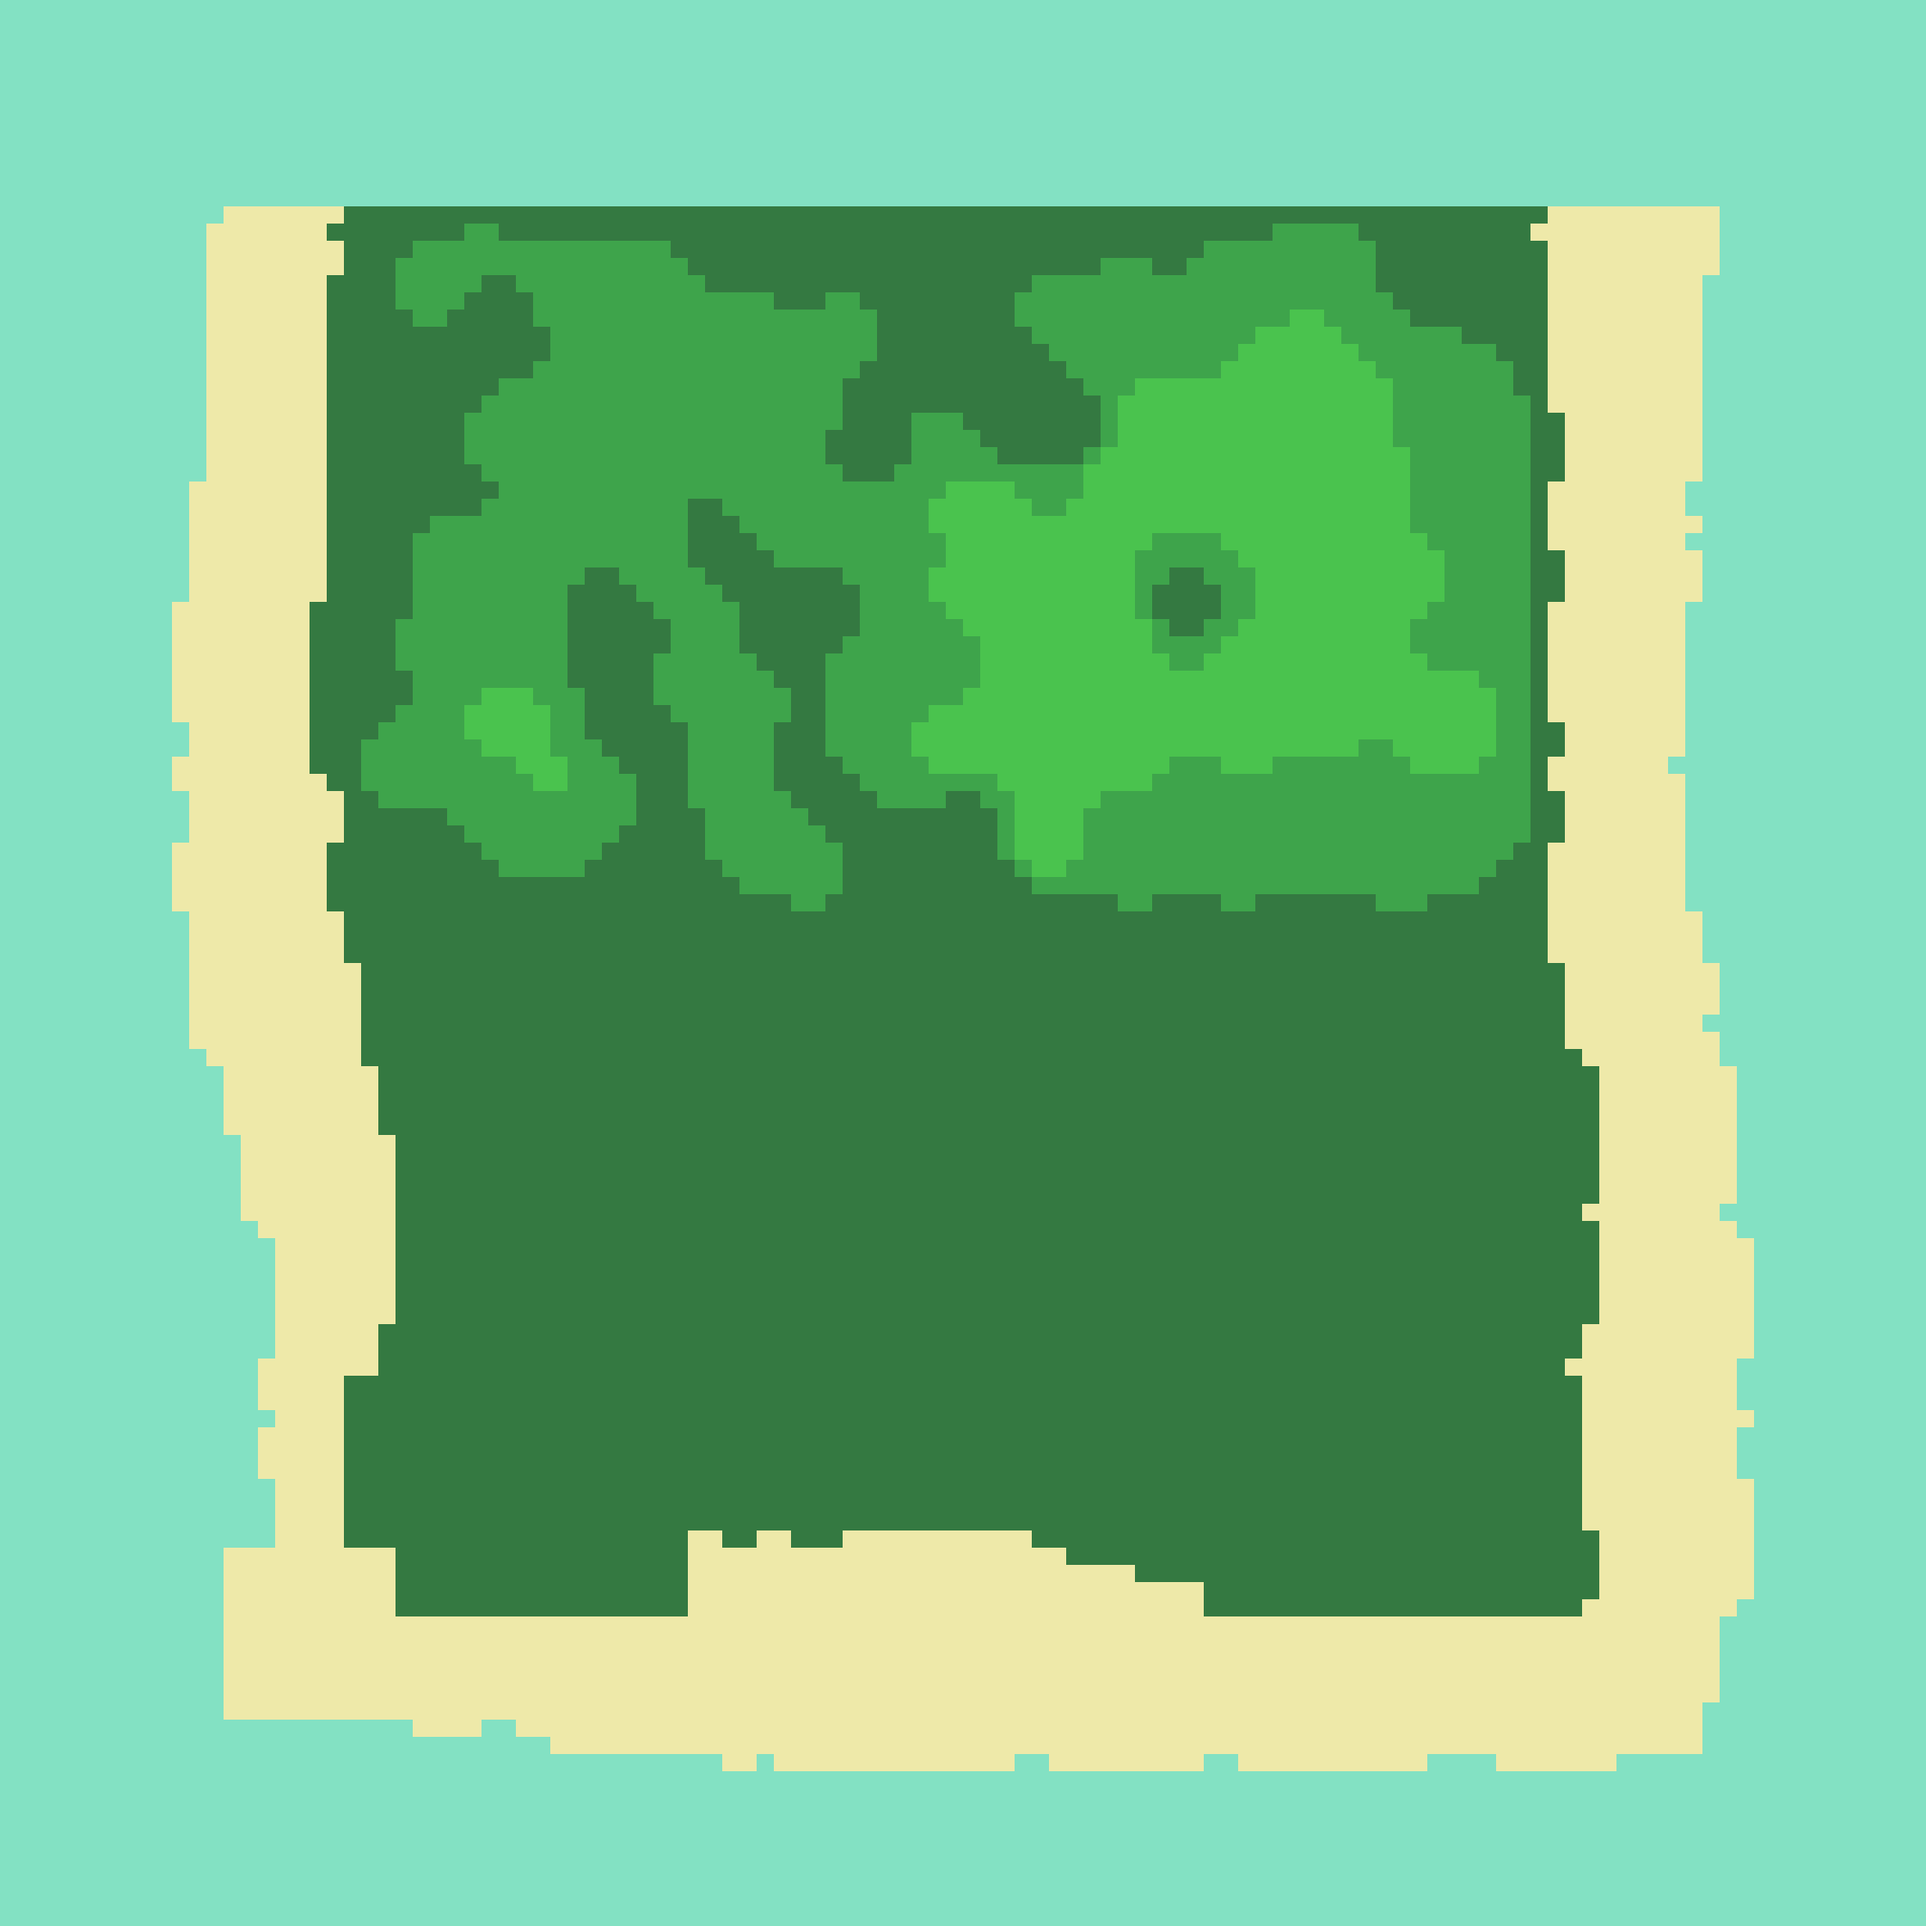
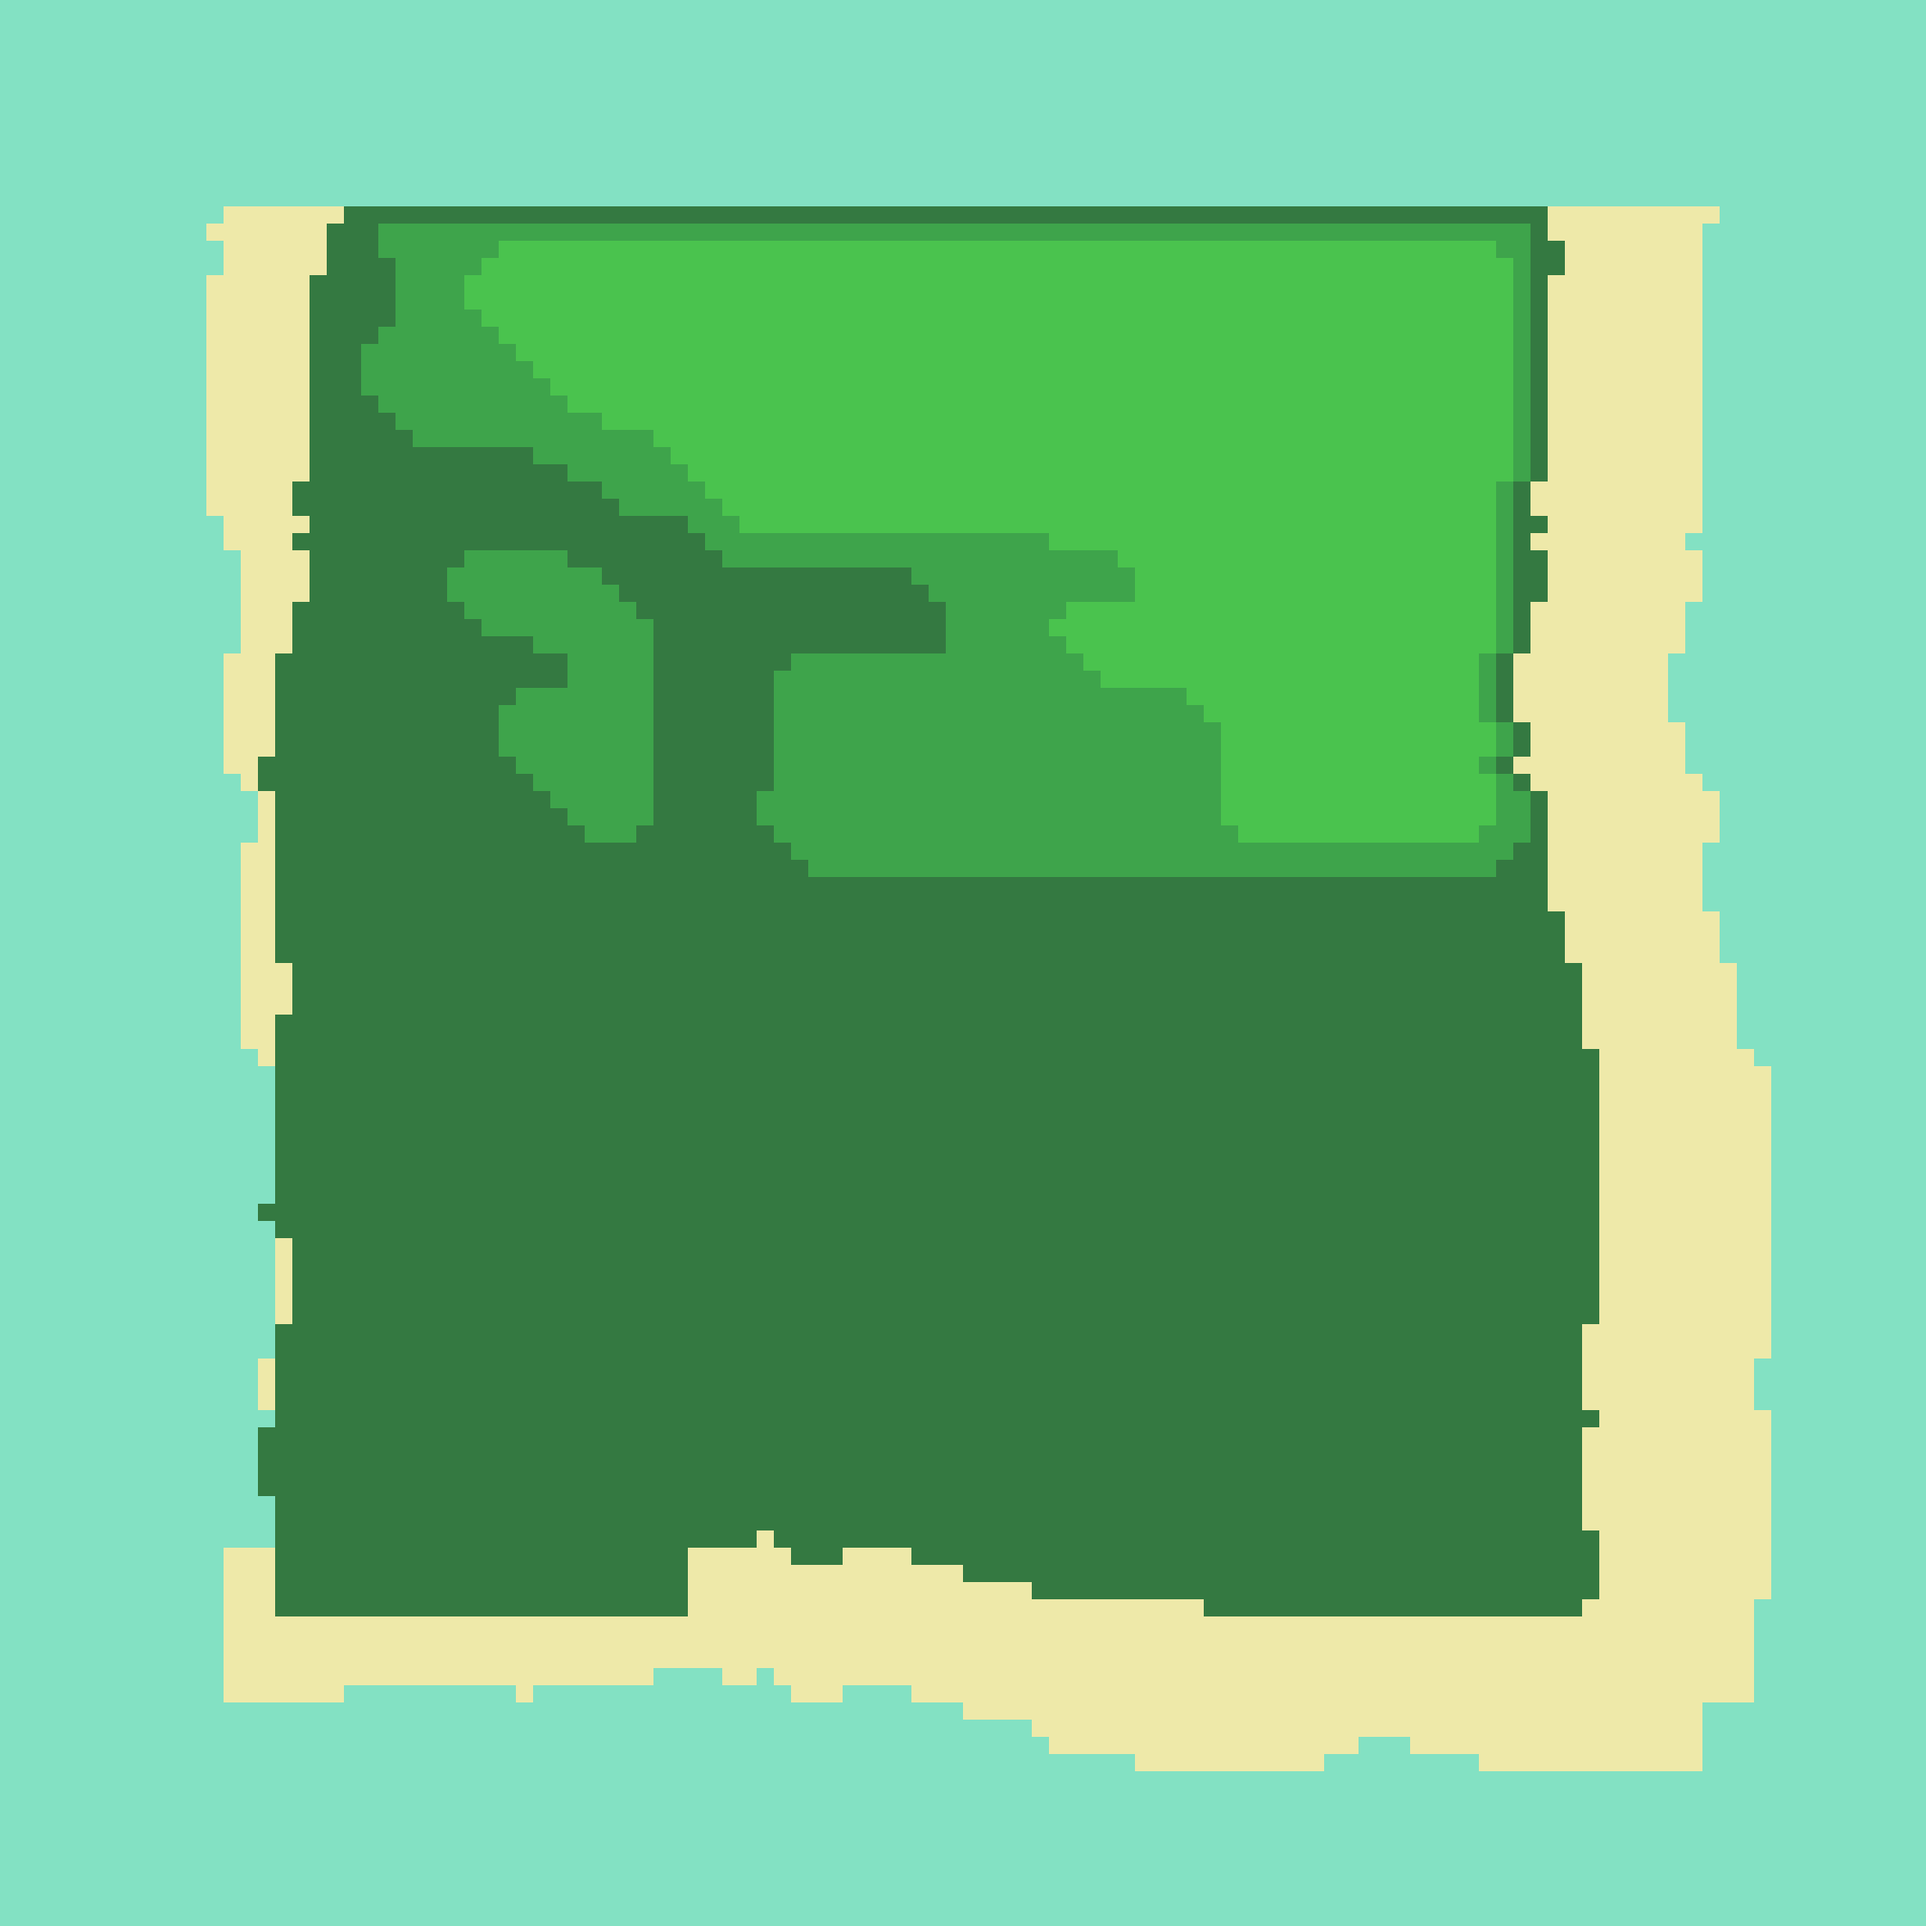
Added fix for holes in the island

diff --git a/HillGenerator.java b/HillGenerator.java
@@ -1,21 +1,24 @@
 import java.util.Random;
 import java.awt.image.*;
-
+import java.util.*;
 public class HillGenerator {
 	private TileMap mappy;
 	private int hillW;
 	private int hillH;
 	private int[][] hillNumbers;
 	
+	private BufferedImage ground;
 	private BufferedImage grass;
 	private BufferedImage hillGrass;
 	
+	private int layer;
+	private Random ran = new Random();
 	private String seed;
 	private Boolean useRandomSeed;
 	private int fillPercent;
-	private int iterations = 5;
+	private int iterations = 4;
 	
-	public HillGenerator(TileMap m, int layer, int fp, String s){
+	public HillGenerator(TileMap m, int lay, int fp, String s){
 		mappy = m;
 		hillW = mappy.getWidth();
 		hillH = mappy.getHeight()/2;
@@ -23,6 +26,7 @@ public class HillGenerator {
 		seed = s;
 		useRandomSeed = false;
 		fillPercent = fp;
+		layer = lay;
 		if(layer==1) {
 			grass = Utility.LoadImage(".\\Resources\\GroundGrass.png");
 			hillGrass = Utility.LoadImage(".\\Resources\\HillGrass1.png");
@@ -32,18 +36,21 @@ public class HillGenerator {
 			hillGrass = Utility.LoadImage(".\\Resources\\HillGrass2.png");
 		}
 	}
-	public HillGenerator(TileMap m, int layer, int fp){
+	public HillGenerator(TileMap m, int lay, int fp){
 		mappy = m;
 		hillW = mappy.getWidth();
 		hillH = mappy.getHeight()/2;
 		hillNumbers = new int[hillW][hillH];
 		useRandomSeed = true;
 		fillPercent = fp;
+		layer = lay;
 		if(layer==1) {
+			ground = Utility.LoadImage(".\\Resources\\GroundGrass.png");
 			grass = Utility.LoadImage(".\\Resources\\GroundGrass.png");
 			hillGrass = Utility.LoadImage(".\\Resources\\HillGrass1.png");
 		}
 		else {
+			ground = Utility.LoadImage(".\\Resources\\GroundGrass.png");
 			grass = Utility.LoadImage(".\\Resources\\HillGrass1.png");
 			hillGrass = Utility.LoadImage(".\\Resources\\HillGrass2.png");
 		}
@@ -55,12 +62,87 @@ public class HillGenerator {
 		for(int i = 0; i < iterations; i++) {
 			SmoothMap();
 		}
+		
+		Cleanup();
+		
 		DrawToMap();
 		return mappy;
 	}
 	
+	private void Cleanup() {
+		List<List<Coord>> grassRegions = GetRegions(1);
+		int grassThreshholdSize = 30;
+		
+		for (List<Coord> grassRegion : grassRegions) {
+			if(grassRegion.size() < grassThreshholdSize) {
+				for(Coord tile : grassRegion) {
+					hillNumbers[tile.getX()][tile.getY()] = 0;
+				}
+			}
+		}
+		
+		List<List<Coord>> hillRegions = GetRegions(1);
+		int hillThreshholdSize = 30;
+		
+		for (List<Coord> hillRegion : hillRegions) {
+			if(hillRegion.size() < hillThreshholdSize) {
+				for(Coord tile : hillRegion) {
+					hillNumbers[tile.getX()][tile.getY()] = 1;
+				}
+			}
+		}
+	}
+	
+	public List<List<Coord>> GetRegions(int tileType){
+		List<List<Coord>> regions = new ArrayList<List<Coord>>();
+		int[][] flags = new int[hillW][hillH];
+		
+		for(int i = 0; i < hillW; i++) {
+			for(int j = 0; j < hillH; j++) {
+				if(flags[i][j] == 0 && hillNumbers[i][j] == tileType) {
+					List<Coord> region = GetRegionTiles(i,j);
+					regions.add(region);
+					
+					for(Coord tile : region) {
+						flags[tile.getX()][tile.getY()] = 1;
+					}
+				}
+			}
+		}
+		return regions;
+	}
+	
+	private List<Coord> GetRegionTiles(int xStart, int yStart){
+		List<Coord> tiles = new ArrayList<Coord> ();
+		int[][] flags = new int[hillW][hillH];
+		//Determine initial type
+		int tileType = hillNumbers[xStart][yStart];
+		
+		Queue<Coord> q = new LinkedList<Coord>();
+		flags [xStart][yStart] = 1;
+		
+		while(q.peek() != null) {
+			Coord tile = q.remove();
+			tiles.add(tile);
+			
+			for(int i = tile.getX() - 1; i <= tile.getX() + 1; i++) {
+				for(int j = tile.getY() - 1; j <= tile.getY() + 1; j++) {
+					if(i >= 0 && i < hillW && i >= 0 && i < hillH) {
+						if(i == tile.getX() || j == tile.getY()) {
+							if(flags[i][j] == 0 && hillNumbers[i][j] == tileType) {
+								flags[i][j] = 1;
+								q.add(new Coord(i,j));
+							}
+						}
+					}
+				}
+			}
+		}
+		
+		return tiles;
+	}
+	
 	private void RandomFill() {
-		Random ran = new Random();
 		if(!useRandomSeed) {
 			ran.setSeed(Long.parseLong(seed));
 		}
@@ -82,10 +164,16 @@ public class HillGenerator {
 					else if(!Utility.compareBufferedImages(mappy.getTile(i, j-1), grass) && !Utility.compareBufferedImages(mappy.getTile(i, j-1), hillGrass)) {
 						hillNumbers[i][j] = 1;
 					}
-					else if(j+3 >= hillH) {
-						hillNumbers[i][j] = 1;
+					else if(!Utility.compareBufferedImages(mappy.getTile(i, j-2), grass) && !Utility.compareBufferedImages(mappy.getTile(i, j-2), hillGrass) && !Utility.compareBufferedImages(mappy.getTile(i, j-2), ground)) {
+						hillNumbers[i][j] = 0;
 					}
-					else if(!Utility.compareBufferedImages(mappy.getTile(i, j+1), grass) && !Utility.compareBufferedImages(mappy.getTile(i, j+1), hillGrass)) {
+					else if(!Utility.compareBufferedImages(mappy.getTile(i, j-3), grass) && !Utility.compareBufferedImages(mappy.getTile(i, j-3), hillGrass) && !Utility.compareBufferedImages(mappy.getTile(i, j-3), ground)) {
+						hillNumbers[i][j] = 0;
+					}
+					else if(layer != 1 && !Utility.compareBufferedImages(mappy.getTile(i, j-4), grass) && !Utility.compareBufferedImages(mappy.getTile(i, j-4), hillGrass) && !Utility.compareBufferedImages(mappy.getTile(i, j-4), ground)) {
+						hillNumbers[i][j] = 0;
+					}
+					else if(j >= hillH-(ran.nextInt(5)+3)) {
 						hillNumbers[i][j] = 1;
 					}
 					else {
@@ -110,23 +198,43 @@ public class HillGenerator {
 		for(int i = 0; i < hillW; i++) {
 			for(int j = 0; j < hillH; j++) {
 				if(Utility.compareBufferedImages(mappy.getTile(i, j), grass) || Utility.compareBufferedImages(mappy.getTile(i, j), hillGrass)) { //Make sure the tiles lower
-				//if(mappy.getTile(i, j).equals(grass)) { //Make sure the tiles lower
+					//If the tile to the left isn't green make the current tile grass
 					if(!Utility.compareBufferedImages(mappy.getTile(i-1, j), grass) && !Utility.compareBufferedImages(mappy.getTile(i-1, j), hillGrass)) {
 						hillNumbers[i][j] = 1;
 					}
+					//If the tile to the right isn't green make the current tile grass
 					else if(!Utility.compareBufferedImages(mappy.getTile(i+1, j), grass) && !Utility.compareBufferedImages(mappy.getTile(i+1, j), hillGrass)) {
 						hillNumbers[i][j] = 1;
 					}
+					//If the tile above isn't green make the current tile grass
 					else if(!Utility.compareBufferedImages(mappy.getTile(i, j-1), grass) && !Utility.compareBufferedImages(mappy.getTile(i, j-1), hillGrass)) {
 						hillNumbers[i][j] = 1;
 					}
+					//For hill on hill prevent cliffs
 					else if(!Utility.compareBufferedImages(mappy.getTile(i, j+1), grass) && !Utility.compareBufferedImages(mappy.getTile(i, j+1), hillGrass)) {
 						hillNumbers[i][j] = 1;
 					}
+					else if(!Utility.compareBufferedImages(mappy.getTile(i, j+2), grass) && !Utility.compareBufferedImages(mappy.getTile(i, j+2), hillGrass)) {
+						hillNumbers[i][j] = 1;
+					}
+					//If the tile 2 above isn't green perform smoothing leaning towards a hill
+					else if(!Utility.compareBufferedImages(mappy.getTile(i, j-2), grass) && !Utility.compareBufferedImages(mappy.getTile(i, j-2), hillGrass) && !Utility.compareBufferedImages(mappy.getTile(i, j-2), ground)) {
+						int wallTiles = GetSurroundingCount(i,j);
+						
+						if(wallTiles > 3)
+							hillNumbers[i][j] = 0;
+						else if(wallTiles < 3)
+							hillNumbers[i][j] = 1;
+					}
+					//If j is within four of the bottom make it grass
+					//else if(j >= hillH-4) {
+					//	hillNumbers[i][j] = 1;
+					//}
+					//Otherwise perform smoothing
 					else {
 						int wallTiles = GetSurroundingCount(i,j);
 				
-						if(wallTiles > 4)
+						if(wallTiles >= 4)
 							hillNumbers[i][j] = 0;
 						else if(wallTiles < 4)
 							hillNumbers[i][j] = 1;

diff --git a/Ethan.java b/Ethan.java
@@ -29,11 +29,13 @@ public class Ethan {
 		SandGrass.fill(40, 70, 12, 30, mappy, groundGrass);
 
 		// Hills Layer 1
-		HillGenerator hilly = new HillGenerator(mappy, 1, 45);
+		// 0 Random fill = everything hills
+		// 100 Random fill = everything grass
+		HillGenerator hilly = new HillGenerator(mappy, 1, 62);
 		mappy = hilly.CreateHills();
 		
 		// Hills Layer 2
-		HillGenerator hilly2 = new HillGenerator(mappy, 2, 50);
+		HillGenerator hilly2 = new HillGenerator(mappy, 2, 61);
 		mappy = hilly2.CreateHills();
 		mappy.saveMap();
 	

diff --git a/Coord.java b/Coord.java
@@ -1,0 +1,19 @@
+
+public class Coord {
+	private int xTile;
+	private int yTile;
+	
+	public Coord(int x, int y) {
+		xTile = x;
+		yTile = y;
+		
+	}
+	
+	public int getX() {
+		return xTile;
+	}
+	public int getY() {
+		return yTile;
+	}
+
+}
